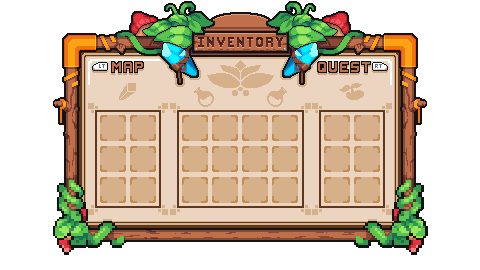
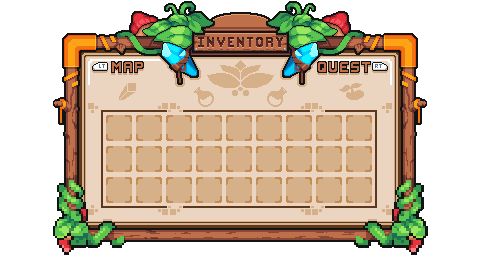
transform the structure of the inventory

Changed region(s): [[0.1875, 0.3852, 0.8125, 0.7704]]

diff --git a/Assets/Inventory/Script/UI_Inventory.cs b/Assets/Inventory/Script/UI_Inventory.cs
@@ -37,18 +37,18 @@ public class UI_Inventory : MonoBehaviour
         }
         int x = 0;
         int y = 0;
-        float itemSlotCellSize = 53f;
+        float itemSlotCellSize = 53.5f;
         foreach(Item item in inventory.GetItemList())
         {
             RectTransform itemSlotRectTransform = Instantiate(itemSlotTemplate, itemSlotContainer).GetComponent<RectTransform>();
             itemSlotRectTransform.gameObject.SetActive(true);
 
-            itemSlotRectTransform.anchoredPosition = new Vector2(x * itemSlotCellSize - 80f, y * itemSlotCellSize + 60f);
+            itemSlotRectTransform.anchoredPosition = new Vector2(x * itemSlotCellSize - 215f, y * itemSlotCellSize + 60f);
             Image image = itemSlotRectTransform.Find("image").GetComponent<Image>();
             image.sprite = item.GetSprite();
              
             x++;
-            if(x >= 4)
+            if(x >= 9)
             {
                 x = 0;
                 y--;

diff --git a/Assets/Inventory/Script/Inventory.cs b/Assets/Inventory/Script/Inventory.cs
@@ -12,7 +12,8 @@ public class Inventory
     {
         itemList = new List<Item>();
 
-        AddItem(new Item { itemType = Item.ItemType.Sword, amount = 1 });
+        AddItem(new Item { itemType = Item.ItemType.HealthPotion, amount = 1 });
+        AddItem(new Item { itemType = Item.ItemType.ManaPotion, amount = 1 });
         AddItem(new Item { itemType = Item.ItemType.HealthPotion, amount = 1 });
         AddItem(new Item { itemType = Item.ItemType.ManaPotion, amount = 1 });
 

diff --git a/Assets/Scripts/Player/PlayerController.cs b/Assets/Scripts/Player/PlayerController.cs
@@ -30,6 +30,10 @@ public class PlayerController : MonoBehaviour
 
         ItemWorld.SpawnItemWorld(new Vector3(5, 18), new Item { itemType = Item.ItemType.Sword, amount = 1 });
 
+        ItemWorld.SpawnItemWorld(new Vector3(10, 21), new Item { itemType = Item.ItemType.Sword, amount = 1 });
+
+        ItemWorld.SpawnItemWorld(new Vector3(5, 21), new Item { itemType = Item.ItemType.Sword, amount = 1 });
+
 
     }
 
